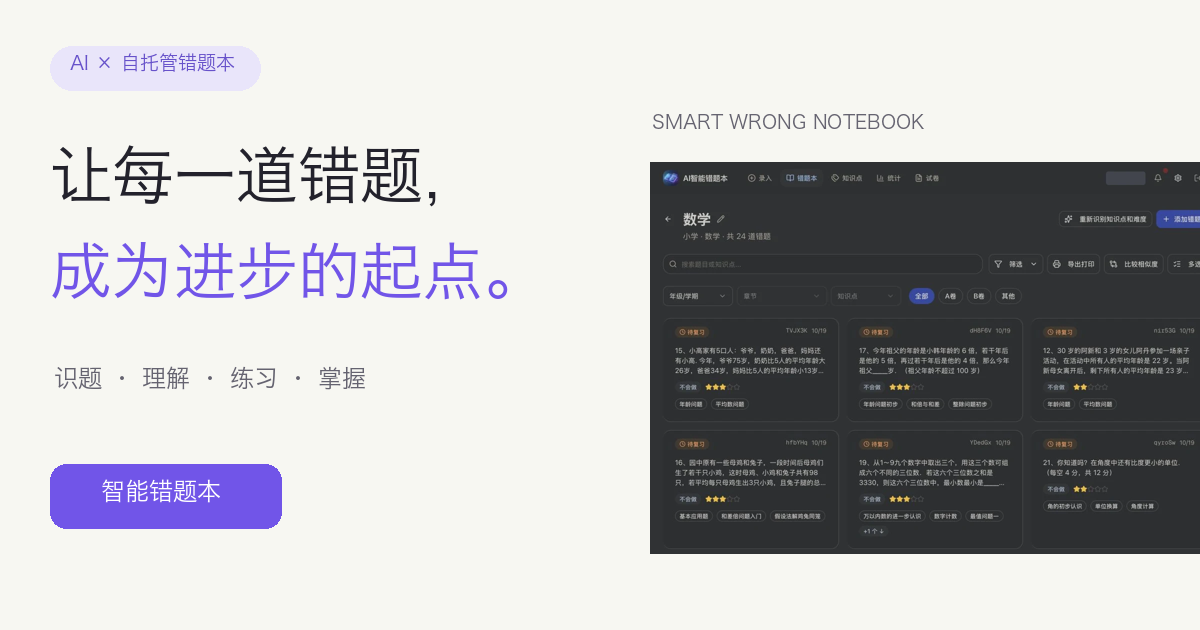
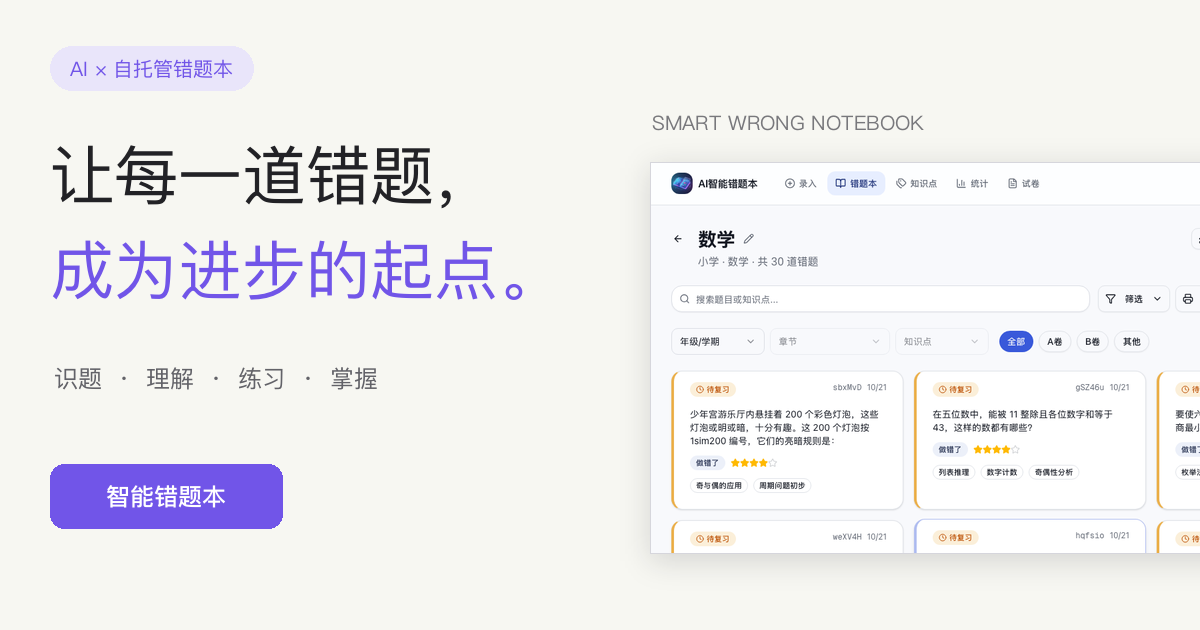
docs: 官网配图改为浅色模式，英文页使用英文界面截图与分享图
- 中文配图更新为浅色模式截图，新增 assets/images/en/ 英文界面截图
- site.js 按页面语言切换预览图目录，站点检查同步校验英文配图
- 重新生成中英文分享图，构建时按语言输出 og:image
- 界面预览窗口改为浅色背景，说明文字与素材来源同步更新

diff --git a/en/index.html b/en/index.html
@@ -11,14 +11,14 @@
     <meta property="og:locale" content="en_US">
     <meta property="og:title" content="Smart Wrong Notebook · Turn every mistake into a step forward">
     <meta property="og:description" content="From snapping a photo to truly mastering it, every mistake gets complete learning feedback. Open source and self-hosted, with installers for every platform, a live demo and support for many AI providers.">
-    <meta property="og:image" content="../assets/images/social-preview.png">
+    <meta property="og:image" content="../assets/images/en/social-preview.png">
     <meta property="og:image:alt" content="Smart Wrong Notebook with the real notebook interface">
     <meta name="twitter:card" content="summary_large_image">
     <title>Smart Wrong Notebook · Turn every mistake into a step forward</title>
     <!-- deployment-metadata -->
     <link rel="icon" type="image/png" href="../assets/icons/app-icon.png">
     <link rel="apple-touch-icon" href="../assets/icons/app-icon.png">
-    <link rel="preload" as="image" href="../assets/images/notebook.webp" fetchpriority="high">
+    <link rel="preload" as="image" href="../assets/images/en/notebook.webp" fetchpriority="high">
     <link rel="stylesheet" href="../assets/styles.css">
     <script src="../assets/site.js" defer></script>
   </head>
@@ -80,10 +80,10 @@
             <div class="floating-tag"><svg class="icon"><use href="#i-sparkle"/></svg> AI connects the dots</div>
             <figure class="hero-window">
               <div class="window-bar"><span class="window-dots"><i></i><i></i><i></i></span><span>Your growing knowledge</span><svg class="icon small"><use href="#i-book"/></svg></div>
-              <button class="image-button" type="button" data-image="notebook" aria-label="Enlarge the real notebook interface"><img class="hero-screenshot" src="../assets/images/notebook.webp" width="1140" height="784" alt="A math notebook in the real app, with question cards, difficulty stars, knowledge points and filters" fetchpriority="high"></button>
+              <button class="image-button" type="button" data-image="notebook" aria-label="Enlarge the real notebook interface"><img class="hero-screenshot" src="../assets/images/en/notebook.webp" width="1140" height="784" alt="A math notebook in the real app, with question cards, difficulty stars, knowledge points and filters" fetchpriority="high"></button>
             </figure>
             <div class="review-note"><span class="review-check"><svg class="icon"><use href="#i-check"/></svg></span><div><strong>Every practice leaves a trace</strong><span>Answer → assess mastery → keep improving</span></div><svg class="mini-trend" viewBox="0 0 70 38" aria-hidden="true"><path d="m3 32 17-7 12 4 16-18 17-7"/><path d="M53 4h12v12"/></svg></div>
-            <p class="visual-caption">Real app screenshot (Chinese UI) · Click to enlarge</p>
+            <p class="visual-caption">Real app screenshot (English UI) · Click to enlarge</p>
           </div>
         </div>
         <div class="container promise-strip"><p>Built for steady learning</p><span><svg class="icon"><use href="#i-book"/></svg> Primary · Middle · High school</span><span><svg class="icon"><use href="#i-sparkle"/></svg> Choose your AI provider</span><span><svg class="icon"><use href="#i-shield"/></svg> Desktop · NAS · Server</span><span class="promise-pwa">PWA <small>Opens like an app</small></span></div>
@@ -105,7 +105,7 @@
         <div class="container">
           <div class="section-heading heading-row"><div><p class="eyebrow">THOUGHTFUL TOOLS, REAL UNDERSTANDING</p><h2 id="features-title">More than collecting mistakes:<br>it cares whether you learned.</h2></div><p>From the details of one question to your whole web of knowledge,<br>the tools you need for learning, in one place.</p></div>
           <div class="feature-grid">
-            <article class="feature-card animation-card"><span class="feature-kicker"><svg class="icon"><use href="#i-play"/></svg> Solutions you can watch</span><h3>Abstract steps,<br>made clear at a glance.</h3><p>AI turns the solution into a step-by-step SVG animation.<br>Pause, seek and replay at your own pace.</p><button class="animation-screenshot image-button" type="button" data-image="svg-animation" aria-label="Enlarge the real SVG animation interface"><img src="../assets/images/svg-animation.webp" width="1140" height="625" loading="lazy" alt="SVG animated explanation of a hexagon coloring problem, with the figure, a recursion table and playback progress"><span class="image-overlay"><svg class="icon"><use href="#i-expand"/></svg> See the real explanation</span></button><span class="card-corner-spark" aria-hidden="true">✳</span></article>
+            <article class="feature-card animation-card"><span class="feature-kicker"><svg class="icon"><use href="#i-play"/></svg> Solutions you can watch</span><h3>Abstract steps,<br>made clear at a glance.</h3><p>AI turns the solution into a step-by-step SVG animation.<br>Pause, seek and replay at your own pace.</p><button class="animation-screenshot image-button" type="button" data-image="svg-animation" aria-label="Enlarge the real SVG animation interface"><img src="../assets/images/en/svg-animation.webp" width="1076" height="592" loading="lazy" alt="SVG animated explanation of a hexagon coloring problem, with the figure, a recursion table and playback progress"><span class="image-overlay"><svg class="icon"><use href="#i-expand"/></svg> See the real explanation</span></button><span class="card-corner-spark" aria-hidden="true">✳</span></article>
             <article class="feature-card practice-card"><span class="feature-kicker"><svg class="icon"><use href="#i-repeat"/></svg> Practice beyond one question</span><h3>Solve one,<br>then solve them all.</h3><p>Generate fill-in-the-blank or free-response questions on the same knowledge point, at the difficulty you choose, to strengthen old weak spots with new problems.</p><div class="practice-illustration" aria-label="Illustration of similar-question practice"><div class="sample-question"><span>Original · Linear equations</span><strong>3x + 6 = 21</strong><i>This time, understand the properties of equality.</i></div><div class="practice-connector"><svg class="icon"><use href="#i-repeat"/></svg><span>Same concept, new practice</span></div><div class="sample-question variant"><span>Variant · A new angle</span><strong>5x − 8 = 27</strong><i>This time, solve it on your own.</i></div><small class="illustration-label">Illustration · Sample questions</small></div></article>
             <article class="feature-card tags-card"><span class="feature-icon"><svg class="icon"><use href="#i-tag"/></svg></span><h3>A place for every concept.</h3><p>Knowledge points are organized by school stage, subject and chapter. AI tags questions automatically, and you can add your own tags.</p><div class="tag-tree" aria-hidden="true"><span>Math</span><div><span>Geometry</span><div><span>Angles</span><span class="tag-accent">Quadrilaterals</span></div></div></div></article>
             <article class="feature-card print-card"><span class="feature-icon"><svg class="icon"><use href="#i-print"/></svg></span><h3>Organize on screen, practice on paper.</h3><p>Build exams by knowledge point and mastery. Include answers and analyses if you like, then print or save as PDF.</p><div class="paper-preview" aria-hidden="true"><div>My targeted practice <svg class="icon"><use href="#i-book"/></svg></div><span>01 <i></i></span><span>02 <i></i></span><small>Source ID · find the original anytime</small></div></article>
@@ -128,10 +128,10 @@
           </div>
           <div class="preview-panel" id="preview-panel" role="tabpanel" aria-labelledby="tab-notebook" tabindex="0">
             <div class="preview-toolbar"><span class="window-dots"><i></i><i></i><i></i></span><span id="preview-window-title">My notebook</span><button type="button" class="preview-expand" id="expand-preview" aria-label="Enlarge the current screenshot"><svg class="icon small"><use href="#i-expand"/></svg><span>Enlarge</span></button></div>
-            <button class="image-button preview-image-button" id="preview-image-button" type="button" aria-label="Enlarge screenshot: My notebook"><img id="preview-image" src="../assets/images/notebook.webp" width="1140" height="784" loading="lazy" alt="Question cards with summaries, difficulty stars and knowledge points, with multiple filters"></button>
+            <button class="image-button preview-image-button" id="preview-image-button" type="button" aria-label="Enlarge screenshot: My notebook"><img id="preview-image" src="../assets/images/en/notebook.webp" width="1140" height="784" loading="lazy" alt="Question cards with summaries, difficulty stars and knowledge points, with multiple filters"></button>
           </div>
-          <div class="preview-caption" aria-live="polite"><p id="preview-description">Filter by knowledge point, grade, mastery and A/B paper to quickly find the questions you need to review.</p><span>Real app screenshots (Chinese UI) · Usernames masked</span></div>
-          <noscript><p class="noscript-notice">More screenshots: <a href="../assets/images/svg-animation.webp">Animations</a> · <a href="../assets/images/mastery-history.webp">Mastery</a> · <a href="../assets/images/exam-print.webp">Exams</a> · <a href="../assets/images/error-stats.webp">Statistics</a></p></noscript>
+          <div class="preview-caption" aria-live="polite"><p id="preview-description">Filter by knowledge point, grade, mastery and A/B paper to quickly find the questions you need to review.</p><span>Real app screenshots · English UI</span></div>
+          <noscript><p class="noscript-notice">More screenshots: <a href="../assets/images/en/svg-animation.webp">Animations</a> · <a href="../assets/images/en/mastery-history.webp">Mastery</a> · <a href="../assets/images/en/exam-print.webp">Exams</a> · <a href="../assets/images/en/error-stats.webp">Statistics</a></p></noscript>
         </div>
       </section>
 

diff --git a/index.html b/index.html
@@ -105,7 +105,7 @@
         <div class="container">
           <div class="section-heading heading-row"><div><p class="eyebrow">THOUGHTFUL TOOLS, REAL UNDERSTANDING</p><h2 id="features-title">不止收集错题，<br>更关心你有没有学会。</h2></div><p>从一道题的细节，到整个知识网络，<br>把学习中需要的工具，放在一起。</p></div>
           <div class="feature-grid">
-            <article class="feature-card animation-card"><span class="feature-kicker"><svg class="icon"><use href="#i-play"/></svg> 把解题思路「演」给你看</span><h3>抽象的步骤，<br>也可以一目了然。</h3><p>AI 按解题思路生成分步骤的 SVG 动画。<br>暂停、拖动、重播，按自己的节奏理解。</p><button class="animation-screenshot image-button" type="button" data-image="svg-animation" aria-label="放大 SVG 动画讲解真实界面"><img src="./assets/images/svg-animation.webp" width="1140" height="625" loading="lazy" alt="六边形染色题的 SVG 动画讲解，包含图形、递推表格和播放进度"><span class="image-overlay"><svg class="icon"><use href="#i-expand"/></svg> 查看真实讲解界面</span></button><span class="card-corner-spark" aria-hidden="true">✳</span></article>
+            <article class="feature-card animation-card"><span class="feature-kicker"><svg class="icon"><use href="#i-play"/></svg> 把解题思路「演」给你看</span><h3>抽象的步骤，<br>也可以一目了然。</h3><p>AI 按解题思路生成分步骤的 SVG 动画。<br>暂停、拖动、重播，按自己的节奏理解。</p><button class="animation-screenshot image-button" type="button" data-image="svg-animation" aria-label="放大 SVG 动画讲解真实界面"><img src="./assets/images/svg-animation.webp" width="1076" height="592" loading="lazy" alt="六边形染色题的 SVG 动画讲解，包含图形、递推表格和播放进度"><span class="image-overlay"><svg class="icon"><use href="#i-expand"/></svg> 查看真实讲解界面</span></button><span class="card-corner-spark" aria-hidden="true">✳</span></article>
             <article class="feature-card practice-card"><span class="feature-kicker"><svg class="icon"><use href="#i-repeat"/></svg> 举一反三，不止这一题</span><h3>会做一道，<br>更要会做一类。</h3><p>基于错题生成同知识点的填空或解答题，可选难度，用新的问题巩固旧的薄弱点。</p><div class="practice-illustration" aria-label="举一反三功能示意"><div class="sample-question"><span>原题 · 一元一次方程</span><strong>3x + 6 = 21</strong><i>这一次，理解等式的性质。</i></div><div class="practice-connector"><svg class="icon"><use href="#i-repeat"/></svg><span>同一知识点，新的练习</span></div><div class="sample-question variant"><span>变式题 · 换个角度</span><strong>5x − 8 = 27</strong><i>这一次，试着独立解答。</i></div><small class="illustration-label">功能示意 · 示例题目</small></div></article>
             <article class="feature-card tags-card"><span class="feature-icon"><svg class="icon"><use href="#i-tag"/></svg></span><h3>让知识，有自己的位置。</h3><p>按学段、学科和章节组织知识点，AI 自动打标签，也支持自定义。</p><div class="tag-tree" aria-hidden="true"><span>数学</span><div><span>几何图形</span><div><span>角的认识</span><span class="tag-accent">四边形</span></div></div></div></article>
             <article class="feature-card print-card"><span class="feature-icon"><svg class="icon"><use href="#i-print"/></svg></span><h3>屏幕上整理，纸上练习。</h3><p>按知识点、掌握情况组卷。自由选择答案与解析，打印或保存为 PDF。</p><div class="paper-preview" aria-hidden="true"><div>我的专项巩固练习 <svg class="icon"><use href="#i-book"/></svg></div><span>01 <i></i></span><span>02 <i></i></span><small>来源 ID · 随时找回原题</small></div></article>
@@ -130,7 +130,7 @@
             <div class="preview-toolbar"><span class="window-dots"><i></i><i></i><i></i></span><span id="preview-window-title">我的错题本</span><button type="button" class="preview-expand" id="expand-preview" aria-label="放大当前界面"><svg class="icon small"><use href="#i-expand"/></svg><span>放大查看</span></button></div>
             <button class="image-button preview-image-button" id="preview-image-button" type="button" aria-label="放大错题管理截图"><img id="preview-image" src="./assets/images/notebook.webp" width="1140" height="784" loading="lazy" alt="错题卡片展示题目摘要、难度星级与知识点，并支持多维度筛选"></button>
           </div>
-          <div class="preview-caption" aria-live="polite"><p id="preview-description">按知识点、年级、掌握情况和 A/B 卷筛选，把需要复习的题目快速找出来。</p><span>实际应用截图 · 用户名已遮挡</span></div>
+          <div class="preview-caption" aria-live="polite"><p id="preview-description">按知识点、年级、掌握情况和 A/B 卷筛选，把需要复习的题目快速找出来。</p><span>实际应用截图 · 浅色模式</span></div>
           <noscript><p class="noscript-notice">更多真实界面：<a href="./assets/images/svg-animation.webp">动画讲解</a> · <a href="./assets/images/mastery-history.webp">掌握跟踪</a> · <a href="./assets/images/exam-print.webp">组卷打印</a> · <a href="./assets/images/error-stats.webp">学习统计</a></p></noscript>
         </div>
       </section>

diff --git a/assets/styles.css b/assets/styles.css
@@ -188,13 +188,13 @@ h1 { font-size: clamp(36px, 4.15vw, 59px); font-weight: 780; line-height: 1.4; l
 .preview-tabs button:hover { background: #ffffff0b; }
 .preview-tabs button[aria-selected="true"]:hover { background: #715a95; }
 .preview-tabs .icon { width: 15px; height: 15px; }
-.preview-panel { max-width: 1060px; margin-inline: auto; overflow: hidden; border: 1px solid #6155686b; border-radius: 12px; background: #2d2d2d; box-shadow: 0 20px 55px #0b061e3d; }
-.preview-toolbar { min-height: 42px; display: flex; align-items: center; justify-content: space-between; padding: 7px 16px; color: #aca1b8; font-size: 10px; background: #36303f; }
+.preview-panel { max-width: 1060px; margin-inline: auto; overflow: hidden; border: 1px solid #6155686b; border-radius: 12px; background: #f7f8fb; box-shadow: 0 20px 55px #0b061e3d; }
+.preview-toolbar { min-height: 42px; display: flex; align-items: center; justify-content: space-between; padding: 7px 16px; color: #6f6680; font-size: 10px; background: #ece9f2; }
 .preview-toolbar .window-dots i { opacity: .6; }
-.preview-expand { display: flex; align-items: center; gap: 5px; background: transparent; color: #b0a4c0; font-size: 9px; border-radius: 4px; }
-.preview-expand:hover { color: white; }
+.preview-expand { display: flex; align-items: center; gap: 5px; background: transparent; color: #6f6680; font-size: 9px; border-radius: 4px; }
+.preview-expand:hover { color: #3f3654; }
 .preview-expand .icon { width: 12px; height: 12px; }
-#preview-image { width: 100%; height: auto; aspect-ratio: 1140 / 784; object-fit: contain; background: #2d2d2d; }
+#preview-image { width: 100%; height: auto; aspect-ratio: 1140 / 784; object-fit: contain; background: #f7f8fb; }
 .preview-image-button { cursor: zoom-in; }
 .preview-caption { display: flex; max-width: 1060px; margin: 20px auto 0; justify-content: space-between; gap: 22px; align-items: center; }
 .preview-caption p { color: #b0a7bc; font-size: 11px; }
@@ -272,7 +272,7 @@ code { font-family: "SFMono-Regular", Consolas, "Liberation Mono", monospace; }
 .dialog-toolbar h2 { font-size: 13px; font-weight: 550; }
 .dialog-toolbar button { color: #d2c6e1; }
 .dialog-toolbar button:hover { background: #ffffff0d; }
-#dialog-image { max-height: calc(100dvh - 170px); width: 100%; object-fit: contain; background: #2d2d2d; }
+#dialog-image { max-height: calc(100dvh - 170px); width: 100%; object-fit: contain; background: #f7f8fb; }
 #dialog-description { padding: 15px 22px; font-size: 11px; color: #b2a5c0; }
 .toast { position: fixed; bottom: 28px; left: 50%; transform: translateX(-50%); border-radius: 9px; background: #30253d; color: white; box-shadow: 0 8px 25px #30253d25; padding: 11px 23px; z-index: 50; font-size: 12px; max-width: calc(100% - 40px); }
 

diff --git a/assets/site.js b/assets/site.js
@@ -2,6 +2,8 @@
 
 // 英文页面与中文页面共用本脚本，按 <html lang> 选择界面文字。
 const isEnglish = document.documentElement.lang.startsWith("en");
+// 英文页使用 images/en/ 下的英文界面截图
+const imageDir = isEnglish ? "en/" : "";
 const text = isEnglish
   ? { enlarge: (title) => `Enlarge screenshot: ${title}`, copied: "Command copied. Paste it into your terminal.", copyManually: "Press Ctrl+C / ⌘C to copy the selected command", openNav: "Open navigation", closeNav: "Close navigation" }
   : { enlarge: (title) => `放大${title}截图`, copied: "命令已复制，可粘贴到终端运行", copyManually: "请按 Ctrl+C / ⌘C 复制已选中的命令", openNav: "打开导航", closeNav: "关闭导航" };
@@ -38,7 +40,7 @@ function selectPreview(key, moveFocus = false) {
     tab.tabIndex = selected ? 0 : -1;
     if (selected && moveFocus) tab.focus();
   }
-  previewImage.src = new URL(`images/${key}.webp`, document.querySelector('script[src$="site.js"]').src).href;
+  previewImage.src = new URL(`images/${imageDir}${key}.webp`, document.querySelector('script[src$="site.js"]').src).href;
   previewImage.alt = item.alt;
   document.getElementById("preview-window-title").textContent = item.title;
   document.getElementById("preview-description").textContent = item.description;
@@ -72,7 +74,7 @@ const dialogImage = document.getElementById("dialog-image");
 function showImage(key) {
   const item = screenshots[key];
   if (!item) return;
-  dialogImage.src = new URL(`images/${key}.webp`, document.querySelector('script[src$="site.js"]').src).href;
+  dialogImage.src = new URL(`images/${imageDir}${key}.webp`, document.querySelector('script[src$="site.js"]').src).href;
   dialogImage.alt = item.alt;
   document.getElementById("dialog-title").textContent = item.title;
   document.getElementById("dialog-description").textContent = item.description;

diff --git a/scripts/build.py b/scripts/build.py
@@ -20,8 +20,12 @@ def render(source: str, path: str, site_url: str) -> str:
     if not site_url:
         return html
     page_url = escape(f"{site_url}/{path}", quote=True)
-    image_url = escape(site_url + "/assets/images/social-preview.png", quote=True)
-    html = re.sub(r'content="(?:\./|\.\./)assets/images/social-preview\.png"', f'content="{image_url}"', html)
+    # 分享图按语言区分：中文 assets/images/，英文 assets/images/en/
+    html = re.sub(
+        r'content="(?:\./|\.\./)assets/images/((?:en/)?social-preview\.png)"',
+        lambda m: f'content="{escape(site_url + "/assets/images/" + m.group(1), quote=True)}"',
+        html,
+    )
     # 搜索引擎要求语言版本互相声明完整地址，x-default 指向中文首页。
     alternates = [f'<link rel="alternate" hreflang="{lang}" href="{escape(f"{site_url}/{target}", quote=True)}">' for _, target, lang in PAGES]
     alternates.append(f'<link rel="alternate" hreflang="x-default" href="{escape(site_url + "/", quote=True)}">')

diff --git a/scripts/check_site.py b/scripts/check_site.py
@@ -76,8 +76,10 @@ def check_page(root: Path, name: str, language: str) -> tuple[PageParser, list[s
         if not parsed.path and parsed.fragment and unquote(parsed.fragment) not in page.ids:
             page.errors.append(f"锚点不存在：{link}")
     # 预览图通过脚本动态切换，单独核对所有已声明的标签对应的图片。
+    # 英文页使用 assets/images/en/ 下的英文界面截图（与 site.js 一致）。
+    image_dir = root / "assets" / "images" / ("en" if language.startswith("en") else "")
     for preview in re.findall(r'data-preview="([\w-]+)"', html):
-        if not (root / "assets" / "images" / f"{preview}.webp").is_file():
+        if not (image_dir / f"{preview}.webp").is_file():
             page.errors.append(f"预览图不存在：{preview}")
     return page, [f"{name}：{error}" for error in page.errors]
 

diff --git a/ASSETS.md b/ASSETS.md
@@ -1,12 +1,12 @@
 # 素材来源
 
-官网根据 `../wrong-notebook` 当前 `main` 分支制作，核对时提交为 `52f6e1b`（2026-10-20）。原项目未在本任务中修改。
+官网根据 `../wrong-notebook` 当前 `main` 分支制作；配图于 2026-10-22 随原项目 `doc/screenshots/` 一起更新为浅色模式，并新增英文界面版本。
 
 ## 真实应用截图
 
-素材来源为原项目 `doc/screenshots/` 的对应 PNG，均已遮挡用户名，不包含实例访问地址或登录凭据。官网转换为 WebP（质量 88），保持画面内容与尺寸。
+中文页素材来源为原项目 `doc/screenshots/` 的对应 PNG，英文页（`assets/images/en/`）来源为 `doc/screenshots/en/` 的同名英文界面 PNG。均为浅色模式，用户名替换为「学生」/「Student」，不包含实例访问地址或登录凭据。官网用 `cwebp -q 88` 转换为 WebP，保持画面内容与尺寸。
 
-| 官网素材 | 原项目素材 | 展示用途 |
+| 官网素材（英文页为 `assets/images/en/` 同名文件） | 原项目素材（英文为 `doc/screenshots/en/`） | 展示用途 |
 | --- | --- | --- |
 | `assets/images/notebook.webp` | `doc/screenshots/notebook.png` | 首页及错题管理 |
 | `assets/images/upload.webp` | `doc/screenshots/upload.png` | 拍照、文字与直接录入 |
@@ -15,11 +15,11 @@
 | `assets/images/exam-print.webp` | `doc/screenshots/exam-print.png` | 打印预览与导出 |
 | `assets/images/error-stats.webp` | `doc/screenshots/error-stats.png` | 错题统计 |
 
-更新时重新核对截图中的用户名、邮箱、内部地址与凭据，并同步替代文本、说明及对应原项目功能。
+更新时中英文两套同时更新，使用浅色模式截图，重新核对截图中的用户名、邮箱、内部地址与凭据，并同步替代文本、说明及对应原项目功能。
 
 ## 其他素材
 
 - `assets/icons/app-icon.png`：来自原项目 `public/icons/icon.png`，缩放至 128 × 128。
-- `assets/images/social-preview.png`：根据官网文案、配色与真实错题本截图制作的分享图。
+- `assets/images/social-preview.png` / `assets/images/en/social-preview.png`：中英文分享图（1200 × 630），由官网文案、配色与对应语言的浅色错题本截图用 Pillow 合成。
 - 页面图标、线条、纸张、示意卡片均为本地 HTML / CSS / SVG；举一反三题目明确标记为功能示意。
 - 页面使用系统字体，无需下载网络字体。

diff --git a/README.md b/README.md
@@ -58,6 +58,6 @@ scripts/check_site.py       资源、锚点、ARIA 与子路径检查
 
 功能说明以原项目的 README 和实现为依据。修改页面内容时，中文和英文页面需同步更新。更新页面时，先核对实际能力，避免把示意题目、AI 评估或界面中的个人统计表述为产品效果承诺。
 
-截图于 2026-10-20 采集于原应用，由原项目提供；用户名已遮挡。本官网将 PNG 转为 WebP，并复用了应用图标。具体来源与更新方式见 [ASSETS.md](ASSETS.md)。
+截图于 2026-10-22 采集于原应用，由原项目提供，均为浅色模式；中文页使用中文界面截图，英文页使用 `assets/images/en/` 下的英文界面截图。本官网将 PNG 转为 WebP，并复用了应用图标。具体来源与更新方式见 [ASSETS.md](ASSETS.md)。
 
 项目应用基于 [wttwins/wrong-notebook](https://github.com/wttwins/wrong-notebook) 扩展，官网页脚保留了上游致谢。
